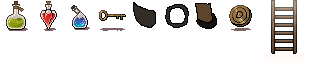
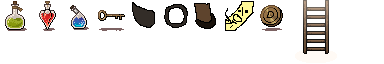
ajout de l'item bon réduction, et amélioration du magasin

Changed region(s): [[0.0, 0.0, 0.9375, 0.8438]]

diff --git a/main.c b/main.c
@@ -198,6 +198,7 @@ int main(int argc, char *argv[]){
     int echelleX = -1;
     int echelleY = -1;
     loot_t lootCoffre;
+    loot_t stockMarchand = initStockMarchand();
 
     //initialise les pointeurs a NULL
     memset(&game, 0, sizeof(Game)); 
@@ -255,7 +256,9 @@ int main(int argc, char *argv[]){
     anneau.f = augmenterPvmax;
     item_t sabot;
     sabot.f = augmenterVitesse;
-    item_t * listeItem[8];
+    item_t couponReduction;
+    couponReduction.f = NULL;
+    item_t * listeItem[9];
     listeItem[0] = &potion;
     listeItem[1] = &potion2;
     listeItem[2] = &potionEnergie;
@@ -263,26 +266,16 @@ int main(int argc, char *argv[]){
     listeItem[4] = &corne;
     listeItem[5] = &anneau;
     listeItem[6] = &sabot;
-    listeItem[7] = NULL;
+    listeItem[7] = &couponReduction;
+    listeItem[8] = NULL;
 //----------------------chargement des variables de menu ---------------------------
     SDL_Rect destEchap = {1180,50,TAILLE_SPRITE/2,TAILLE_SPRITE/2};//position du bouton echap
-//----------------------Chargement d'image ------------------------------------------
-    SDL_Surface * surface = SDL_GetWindowSurface(game.window);
-    SDL_Texture * Chiffre = NULL;
-    if (chargerImage("Img/chiffreTest.bmp", game.renderer, &Chiffre) != 0) {
-        fprintf(stderr, "Erreur chargement Chiffre\n");
-        cleanup();
-        return 1;
-    }
 //---------------------------------------------menu de départ
-    SDL_Rect play = {(SCREEN_WIDTH-TAILLE_MENU)/2,SCREEN_HEIGHT/2.5-TAILLE_MENU,TAILLE_MENU,TAILLE_MENU};
-    SDL_Rect continu = {(SCREEN_WIDTH-TAILLE_MENU)/2,SCREEN_HEIGHT/2-TAILLE_MENU,TAILLE_MENU,TAILLE_MENU};
-    SDL_Rect quit = {(SCREEN_WIDTH-TAILLE_MENU)/2,SCREEN_HEIGHT/1.5-TAILLE_MENU,TAILLE_MENU,TAILLE_MENU};
+    SDL_Rect play = {(SCREEN_WIDTH-TAILLE_MENU)/2,SCREEN_HEIGHT/2.5-TAILLE_MENU,TAILLE_MENU,TAILLE_MENU/2};
+    SDL_Rect continu = {(SCREEN_WIDTH-TAILLE_MENU)/2,SCREEN_HEIGHT/2-TAILLE_MENU,TAILLE_MENU,TAILLE_MENU/2};
+    SDL_Rect quit = {(SCREEN_WIDTH - TAILLE_MENU) / 2,SCREEN_HEIGHT / 1.5 - TAILLE_MENU,TAILLE_MENU,TAILLE_MENU/2};
 
     const int menuRectH = TAILLE_MENU / 2;
-    SDL_Rect playRect = {play.x, play.y + (play.h - menuRectH) / 2, play.w, menuRectH};
-    SDL_Rect continuRect = {continu.x, continu.y + (continu.h - menuRectH) / 2, continu.w, menuRectH};
-    SDL_Rect quitRect = {quit.x, quit.y + (quit.h - menuRectH) / 2, quit.w, menuRectH};
     TTF_Font* titleFont = getTitleFont();
     SDL_Texture* titleTexture = NULL;
     SDL_Rect titleRect = {0, 0, 0, 0};
@@ -311,26 +304,26 @@ int main(int argc, char *argv[]){
         SDL_Event event;
         while(SDL_PollEvent(&event)){
             if(event.type == SDL_MOUSEBUTTONDOWN){
-                if(detecterButtonClique(&event,&playRect)){
+                if(detecterButtonClique(&event,&play)){
                     sortie = 2;
                 }
-                else if (detecterButtonClique(&event,&quitRect)){
+                else if (detecterButtonClique(&event,&quit)){
                     cleanup();
                     return 0;
                 }
-                else if(detecterButtonClique(&event,&continuRect)){
+                else if(detecterButtonClique(&event,&continu)){
                     sortie =1;
                 }
             }
         }
         SDL_GetMouseState(&(sourisX),&(sourisY));
-        if((playRect.x<sourisX)&&(playRect.x+playRect.w>sourisX)&&(playRect.y<sourisY)&&(playRect.y+playRect.h>sourisY)){
+        if(detecterSourisDansRect(sourisX, sourisY, &play)){
             playF = getTileRect(1,ATLAS_BOUTON);
         }
         else{
             playF = getTileRect(0,ATLAS_BOUTON);     
         }
-        if((quitRect.x<sourisX)&&(quitRect.x+quitRect.w>sourisX)&&(quitRect.y<sourisY)&&(quitRect.y+quitRect.h>sourisY)){
+        if(detecterSourisDansRect(sourisX, sourisY, &quit)){
             quitF = getTileRect(3,ATLAS_BOUTON);
         }
         else{
@@ -342,7 +335,7 @@ int main(int argc, char *argv[]){
             SDL_RenderCopy(game.renderer, titleTexture, NULL, &titleRect);
         }
         if(fichierExiste(FICHIER_DATA)){
-            if((continuRect.x<sourisX)&&(continuRect.x+continuRect.w>sourisX)&&(continuRect.y<sourisY)&&(continuRect.y+continuRect.h>sourisY)){
+            if(detecterSourisDansRect(sourisX, sourisY, &continu)){
                 continuF = getTileRect(7,ATLAS_BOUTON);
             }
             else{
@@ -462,6 +455,7 @@ int main(int argc, char *argv[]){
         fprintf(f,"nb_corne=%d\n",0);
         fprintf(f,"nb_anneau=%d\n",0);
         fprintf(f,"nb_sabot=%d\n",0);
+        fprintf(f,"nb_couponReduction=%d\n",0);
         fprintf(f,"etage=%d\n",1);
         fclose(f);
     }
@@ -481,6 +475,7 @@ int main(int argc, char *argv[]){
     fscanf(f,"nb_corne=%d\n",&(listeItem[4]->nb));
     fscanf(f,"nb_anneau=%d\n",&(listeItem[5]->nb));
     fscanf(f,"nb_sabot=%d\n",&(listeItem[6]->nb));
+    fscanf(f,"nb_couponReduction=%d\n",&(listeItem[7]->nb));
     /*switch(fighter.classeID){
         case GLADIATEUR:
             fighter.max_hp = GLADIATEUR_MAX_HP;
@@ -562,6 +557,7 @@ int main(int argc, char *argv[]){
                     if(procheEchelle){ //quand on passe a l'etage suivant
                         etageActuel++; 
                         coffre =0;
+                        loot_t stockMarchand = initStockMarchand();
                         initMapParEtage(etageActuel, &IDSalleBoss, &IDSalleMiniBoss, &IDSalleTroc);
                         player.xTile = 9;
                         player.yTile = 7;
@@ -737,7 +733,7 @@ int main(int argc, char *argv[]){
                     }
                 }
                 else if (e.type == SDL_MOUSEBUTTONDOWN && menuMarchand){
-                    detecterAchat(&e,&fighter, listeItem);
+                    detecterAchat(&e,&fighter, listeItem,&stockMarchand);
                     if(detecterButtonClique(&e,&destEchap)){
                         menuMarchand = 0;
                     }
@@ -791,7 +787,7 @@ int main(int argc, char *argv[]){
             afficherItemObtenu(game.renderer,&lootCoffre);
         }
         if(menuMarchand){
-            afficherMagasin(game.renderer, &fighter);
+            afficherMagasin(game.renderer, &fighter,listeItem,&stockMarchand);
         }
         SDL_RenderPresent(game.renderer);
         SDL_Delay(16);

diff --git a/system/inventaire.c b/system/inventaire.c
@@ -45,6 +45,13 @@ void afficherPiece(SDL_Renderer * r,int nbPiece, int x, int y){
     SDL_RenderCopy(r,getAtlasItem(),&src,&dest);
 }
 
+void afficherTicketReduction(SDL_Renderer * r,item_t * l[], int x, int y){
+    SDL_Rect src = getItemRect(7);
+    SDL_Rect dest = {x+100,y,TAILLE_AFF_ITEM,TAILLE_AFF_ITEM};
+    drawChiffre(r,l[7]->nb,x,y);
+    SDL_RenderCopy(r,getAtlasItem(),&src,&dest);
+}
+
 void afficherXp(SDL_Renderer * r,int xp, int x, int y){
     SDL_Color titleColor = {240, 230, 180, 255};
     drawChiffre(r,xp,x,y);
@@ -139,6 +146,11 @@ void dropItem2(item_t * l[], int ennemi, loot_t * d){
                 l[1]->nb++;
                 d->item[d->nbItem] = 1;
                 d->nbItem++;
+                if(rand()%20>=19){
+                    l[7]->nb++;
+                    d->item[d->nbItem] = 7;
+                    d->nbItem++;
+                }
             }
             if(rand()%30>=29){
                 l[3]->nb++;
@@ -192,7 +204,7 @@ loot_t dropCoffre(item_t * l[],Fighter * p){
     loot_t drop;
     drop.nbItem = 0;
     drop.or = 0;
-    switch(rand()%4){
+    switch(rand()%5){
         case 0: l[0]->nb+=10;
             drop.nbItem = 10;
             for (int i =0;i<10;i++){
@@ -205,10 +217,16 @@ loot_t dropCoffre(item_t * l[],Fighter * p){
                 drop.item[i]=1;
             }
             break;
-        case 2: p->gold+=200;
+        case 2: l[7]->nb+=5;
+            drop.nbItem = 5;
+            for (int i =0;i<5;i++){
+                drop.item[i]=7;
+            }
+            break;
+        case 3: p->gold+=200;
             drop.or = 200;
             break;
-        case 3: 
+        case 4: 
             for(int i = 0;i<3;i++){
                 switch(rand()%3){
                     case 0: l[4]->nb++;
@@ -274,41 +292,88 @@ void afficherItemObtenu(SDL_Renderer * r, loot_t * d){
     }
 }
 
-void afficherMagasin(SDL_Renderer * r,Fighter * p){
+void tableauPrix(int prix[], item_t * l[]){
+    if(l[7]->nb>0){
+        prix[0] = 0;
+        prix[1] = 13;
+        prix[2] = 45;
+        prix[3] = 54;
+    }
+    else{
+        prix[0] = 1;
+        prix[1] = 15;
+        prix[2] = 50;
+        prix[3] = 60;
+    }
+}
+
+void afficherMagasin(SDL_Renderer * r,Fighter * p, item_t * l[],loot_t * stock){
     SDL_Rect destMenu = {50,50,SCREEN_WIDTH/1.1,SCREEN_HEIGHT-50};
     SDL_Rect destEchap = {1180,50,TAILLE_SPRITE/2,TAILLE_SPRITE/2};
     SDL_Rect imgEchap = getTileRect(4,ATLAS_BOUTON);
     SDL_Rect menuF = getTileRect(5,ATLAS_BOUTON);
     SDL_Rect item = {100,100,TAILLE_AFF_ITEM,TAILLE_AFF_ITEM};
-    SDL_Rect c = {110,120,TAILLE_CHIFFRE,TAILLE_CHIFFRE};
+    SDL_Rect c = {110,140,TAILLE_CHIFFRE,TAILLE_CHIFFRE};
     SDL_Rect TexItem;
-    int prixItem[2] = {1,15};
+    int prixItem[4];
+    tableauPrix(prixItem,l);
     SDL_RenderCopy(r,getAtlasMenu(),&menuF,&destMenu);
     SDL_RenderCopy(r,getAtlasMenu(),&imgEchap,&destEchap);
     int x = 100;
-    for(int i =0; i<2;i++){
-            TexItem = getItemRect(i);
-            SDL_RenderCopy(r, getAtlasItem(),&TexItem, &item);
-            drawChiffre(r,prixItem[i],c.x,c.y);
-            x+=100;
-            item.x = x;
-            c.x = x+10;
+    for(int i =0; i<stock->nbItem;i++){
+            if(stock->item[i] != -1){
+                TexItem = getItemRect(stock->item[i]);
+                SDL_RenderCopy(r, getAtlasItem(),&TexItem, &item);
+                drawChiffre(r,prixItem[i],c.x,c.y);
+                x+=100;
+                item.x = x;
+                c.x = x+10;
+            }
     }
-    drawChiffre(r,p->gold,SCREEN_WIDTH/1.1,SCREEN_HEIGHT/10);
+    if(l[7]->nb>0){
+        afficherTicketReduction(r,l,SCREEN_WIDTH/1.3,SCREEN_HEIGHT/5);
+    }
+    afficherPiece(r,p->gold,SCREEN_WIDTH/1.3,SCREEN_HEIGHT/10);
 }
 
-void detecterAchat(SDL_Event * event, Fighter * p, item_t * l[]){
+void detecterAchat(SDL_Event * event, Fighter * p, item_t * l[], loot_t * stock){
     SDL_Rect item = {100,100,TAILLE_AFF_ITEM,TAILLE_AFF_ITEM};
-    int prixItem[2] = {1,15};
+    int prixItem[4];
+    tableauPrix(prixItem,l);
     int x = 100;
-    for(int i = 0;i<2;i++){
-        if(detecterButtonClique(event,&item)){
+    for(int i = 0;i<stock->nbItem;i++){
+        if(stock->item[i]!=-1 && detecterButtonClique(event,&item)){
             if(p->gold>=prixItem[i]){
                 p->gold-=prixItem[i];
                 l[i]->nb++;
+            }
+            if(l[7]->nb>0){
+                l[7]->nb--;
+            }
+            if(i>=2){
+                stock->item[i] = -1;
             }
         }
         x+=100;
         item.x = x;
     }
+}
+
+loot_t initStockMarchand(){
+    loot_t stock;
+    stock.nbItem = 4;
+    stock.item[0] = 0;
+    stock.item[1] = 1;
+    switch(rand()%3){
+        case 0: 
+            stock.item[2] = 4; 
+            break;
+        case 1: 
+            stock.item[2] = 5; 
+            break;
+        case 2: 
+            stock.item[2] = 6; 
+    }
+    stock.item[3] = 3;
+    return stock;
 }

diff --git a/system/utilitaire.c b/system/utilitaire.c
@@ -37,9 +37,16 @@ int detecterButtonClique(SDL_Event * e,SDL_Rect * r){
     //j'utilise la fonction PointInRect qui vérifie si p est dans le rectangle de l'image pour Rect r
 }
 
+int detecterSourisDansRect(int x, int y, SDL_Rect * r){
+    SDL_Point p = {x,y}; 
+    return 0;
+    return SDL_PointInRect(&p,r); 
+}
+
 void afficherChiffre(SDL_Renderer * r,SDL_Texture * t,int nb,SDL_Rect * d){
     d->w = 32;
     d->h = 32;
+    int decalage = 0;
     SDL_Rect chif = {nb%10*32,0,TAILLE_CHIFFRE,TAILLE_CHIFFRE};
     if(nb>9){
         SDL_Rect chif2 = {(nb%100/10)*32,0,TAILLE_CHIFFRE,TAILLE_CHIFFRE};
@@ -50,7 +57,9 @@ void afficherChiffre(SDL_Renderer * r,SDL_Texture * t,int nb,SDL_Rect * d){
             d2.x = d->x-64;
             SDL_RenderCopy(r, t,&chif2,&d2);
         }
+        decalage += 32;
     }
+    d->x -= decalage;
     SDL_RenderCopy(r, t,&chif,d);
 }
 
@@ -75,6 +84,7 @@ void saveGameData(Fighter *fighter, item_t *listeItem[], int etageActuel){
     fprintf(f,"nb_corne=%d\n",listeItem[4]->nb);
     fprintf(f,"nb_anneau=%d\n",listeItem[5]->nb);
     fprintf(f,"nb_sabot=%d\n",listeItem[6]->nb);
+    fprintf(f,"nb_couponReduction=%d\n",listeItem[7]->nb);
     fprintf(f,"etage=%d\n",etageActuel);
     fclose(f);
 }

diff --git a/system/inventaire.h b/system/inventaire.h
@@ -108,17 +108,21 @@ void afficherItemObtenuCombat(SDL_Renderer * r, loot_t * d);
 */
 void afficherItemObtenu(SDL_Renderer * r, loot_t * d);
 
+void tableauPrix(int prix[], item_t * l[]);
+
 /** \brief affiche le magasin : les items vendus, leurs prix et l'argent que possède le joueur 
     \param r pointeur vers le moteur de rendu
     \param p pointeur vers le perso pour afficher le nombre de pièces posséder
+    \param l liste des items pour accéder aux nombre de tickets de réduc 
 */
-void afficherMagasin(SDL_Renderer * r,Fighter * p);
+void afficherMagasin(SDL_Renderer * r,Fighter * p,item_t * l[], loot_t * stock);
 
 /** \brief fonction qui détècte à partir de la position de la souris si un item est cliqué est procède à son achat si le joueur à assez de pièces
     \param event pointeur vers l'évènement clic pour savoir les coordonnées du clic
     \param p pointeur vers le perso pour vérifier son argent et la diminuer en cas d'achat
     \param l pointeur vers la liste d'items pour ajouter les items achetés
 */
-void detecterAchat(SDL_Event * event, Fighter * p, item_t * l[]);
+void detecterAchat(SDL_Event * event, Fighter * p, item_t * l[], loot_t * stock);
 
+loot_t initStockMarchand();
 #endif 

diff --git a/def.h b/def.h
@@ -45,7 +45,7 @@ enum Direction {DROITE, BAS, GAUCHE, HAUT};
 //items
 //#define NB_ITEM 4/**< nombre d'items dans le jeu */ 
 #define MAX_DROP 11/**< indique le nombre max d'items qu'on peux obtenir en une action, utile pour le tableau dans loot_t */
-#define ID_PIECE 7/**<indique quelle image correspond à celle d'une pièce */
+#define ID_PIECE 8/**<indique quelle image correspond à celle d'une pièce */
 
 //fichier de sauvegarde
 #define FICHIER_DATA "data.txt"//nom du fichier où sont sauvegardé les données 

diff --git a/system/utilitaire.h b/system/utilitaire.h
@@ -36,6 +36,8 @@ int chargerImage(char nom[],SDL_Renderer * r,SDL_Texture ** t);
 */
 int detecterButtonClique(SDL_Event * e,SDL_Rect * r);
 
+int detecterSourisDansRect(int x, int y, SDL_Rect * r);
+
 /** \brief fonction qui affiche un chiffre 
     \param r pointeur vers le moteur de rendu 
     \param t pointeur vers la texture de chiffre de 32px * 32 px
